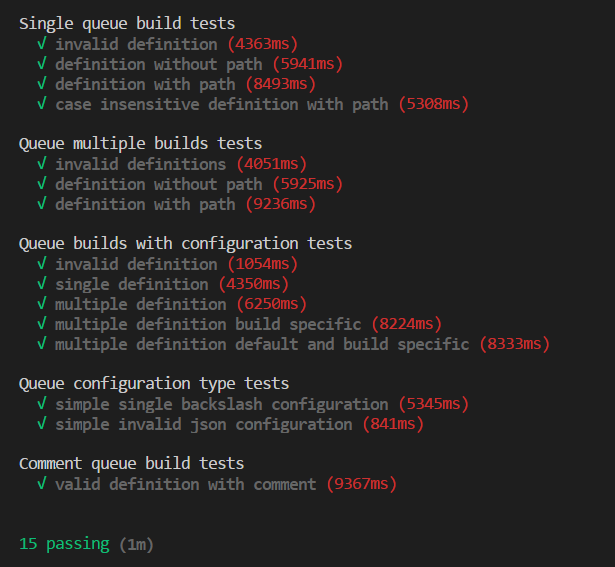
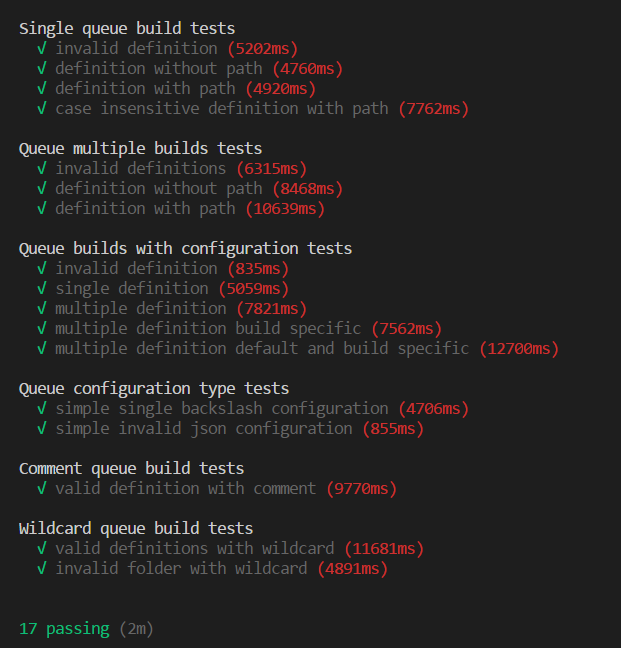
#25 Added wildcard support

Changed region(s): [[0.0309, 0.03, 0.8959, 0.8995], [0.0309, 0.9295, 0.2472, 0.9894], [0.7724, 0.5097, 0.8959, 0.5697]]

diff --git a/src/task/configuration/environment.configuration.ts b/src/task/configuration/environment.configuration.ts
@@ -1,8 +1,10 @@
 import { getInput, getVariable, getDelimitedInput, getEndpointAuthorization, getBoolInput } from 'vsts-task-lib/task';
+import { BuildApi } from '../build-api';
 import { IBuildConfiguration, IEnvironmentConfiguration } from './interface';
 import { TeamProjectType } from '../enum/team-project-type.enum';
 import { BuildConfiguration } from './build.configuration';
 import { BuildConfigurationParser } from './build-configuration.parser';
+import { getTeamProjectOutput } from '../util/output';
 
 export class EnvironmentConfiguration implements IEnvironmentConfiguration {
     public teamFoundationUri: string;
@@ -12,7 +14,6 @@ export class EnvironmentConfiguration implements IEnvironmentConfiguration {
     public accessToken: string;
     public requestedFor: string | null;
     public async: boolean;
-    public buildConfigurations: IBuildConfiguration[];
 
     public teamProjectType: TeamProjectType;
     private teamProject: string;
@@ -28,8 +29,6 @@ export class EnvironmentConfiguration implements IEnvironmentConfiguration {
 
         // Team project must be set before the configuration is parsed
         this.setTeamProject();
-
-        this.buildConfigurations = this.getBuildConfigurations();
     }
 
     /**
@@ -136,8 +135,7 @@ export class EnvironmentConfiguration implements IEnvironmentConfiguration {
     /** 
      * Parse & convert json configuration for the builds
      */
-    public getBuildConfigurations(): IBuildConfiguration[] {
-
+    public async getBuildConfigurations(buildApi: BuildApi): Promise<IBuildConfiguration[]> {
         // Process build configuration
         let buildConfigurationInput = getInput('buildConfiguration', false);
         if (this.debug) {
@@ -182,6 +180,71 @@ export class EnvironmentConfiguration implements IEnvironmentConfiguration {
             }
         }
 
-        return buildConfigurations;
+        return await this.loadBuildDefinitions(buildApi, buildConfigurations);
+    }
+
+    private async loadBuildDefinitions(buildApi: BuildApi, definitions: IBuildConfiguration[]): Promise<IBuildConfiguration[]> {
+        let result: IBuildConfiguration[] = [];
+
+        for (let i = 0; i < definitions.length; i++) {
+            let buildConfiguration = definitions[i];
+
+            // Get build definitions
+            let buildDefinitions = await buildApi.getDefinitions(buildConfiguration.teamProject);
+            if (this.debug) {
+                console.log(`Builds${getTeamProjectOutput(this, buildConfiguration, true, false)}: ${JSON.stringify(buildDefinitions)}`);
+            }
+
+            // Process build path
+            if (this.debug) {
+                console.log(`Path: ${buildConfiguration.path}, Build name: ${buildConfiguration.buildName}`);
+            }
+
+            // Find wild card build definitions
+            if (buildConfiguration.buildName.endsWith('*')) {
+                let filteredDefinitions = buildDefinitions.filter(b => b.path == buildConfiguration.path);
+
+                for (let k = 0; k < filteredDefinitions.length; k++) {
+                    let definition = filteredDefinitions[k];
+
+                    // Clone configuration for each build
+                    let config = JSON.parse(JSON.stringify(buildConfiguration));
+                    config.buildName = definition.name;
+                    config.buildDefinitionId = definition.id;
+                    result.push(config);
+
+                    if (this.debug) {
+                        console.log(` - Build definition id: ${config.buildDefinitionId}`);
+                    }
+                }
+                continue;
+            }
+
+            // Find build definition
+            let buildDefinition = buildDefinitions.find(b => b.name === buildConfiguration.buildName && b.path == buildConfiguration.path);
+            if (buildDefinition == null) {
+                buildDefinition = buildDefinitions
+                    .find(b => b.name.toLowerCase() === buildConfiguration.buildName.toLowerCase()
+                        && b.path.toLowerCase() == buildConfiguration.path.toLowerCase());
+
+                if (buildDefinition == null) {
+                    if (this.async === true) {
+                        throw Error(`Build definition "${buildConfiguration.originalBuildName}" not found ${getTeamProjectOutput(this, buildConfiguration, false, false)}`);
+                    } else {
+                        console.error(`Build definition "${buildConfiguration.originalBuildName}" not found ${getTeamProjectOutput(this, buildConfiguration, false, false)}`);
+                    }
+                }
+            }
+
+            let id = buildDefinition != null ? buildDefinition.id : null;
+            if (this.debug) {
+                console.log(`Build definition id: ${id} ${getTeamProjectOutput(this, buildConfiguration, false, false)}`);
+            }
+
+            buildConfiguration.buildDefinitionId = id;
+            result.push(buildConfiguration);
+        }
+
+        return result;
     }
 }

diff --git a/src/test/test-suite.ts b/src/test/test-suite.ts
@@ -272,11 +272,11 @@ sourceVersion: null,
     }
 },
 "Build 01": {
-    "sourceBranch": "feature/angular-release"
+    "sourceBranch": "feature/test"
 },
 "Build 02": {
     "sourceBranch": "master",
-    "sourceVersion": "7501defae79c4bedf4ab2231bae3cd01664bf18c"
+    "sourceVersion": "c372910406c50fa8a67af50639308729a2da58e4"
 }
 }`;
 
@@ -288,8 +288,8 @@ sourceVersion: null,
         assert(tr.stdout.indexOf(`Build "Build 01" started`) >= 0, "build definition for build1 should be valid");
         assert(tr.stdout.indexOf(`Build "Build 02" started`) >= 0, "build definition for build2 should be valid");
         assert(tr.stdout.indexOf(`Build "Build 03" started`) >= 0, "build definition for build3 should be valid");
-        assert(tr.stdout.indexOf(`Queue request parameters for build "Build 01": {"sourceBranch":"feature/angular-release","definition":{"id":`) >= 0, "build configuration for build1 should be valid");
-        assert(tr.stdout.indexOf(`Queue request parameters for build "Build 02": {"sourceBranch":"master","sourceVersion":"7501defae79c4bedf4ab2231bae3cd01664bf18c","definition":{"id":`) >= 0, "build configuration for build2 should be valid");
+        assert(tr.stdout.indexOf(`Queue request parameters for build "Build 01": {"sourceBranch":"feature/test","definition":{"id":`) >= 0, "build configuration for build1 should be valid");
+        assert(tr.stdout.indexOf(`Queue request parameters for build "Build 02": {"sourceBranch":"master","sourceVersion":"c372910406c50fa8a67af50639308729a2da58e4","definition":{"id":`) >= 0, "build configuration for build2 should be valid");
         assert(tr.stdout.indexOf(`Queue request parameters for build "Build 03": {"parameters":"{\\"system.debug\\":true,\\"testVariable\\":\\"Another value\\"}","definition":{"id":`) >= 0, "build configuration for build3 should be valid");
 
         done();
@@ -391,6 +391,51 @@ Build 01
         assert(tr.succeeded, 'should have succeeded');
         assert(tr.stdout.indexOf(`Build "Build 01" started`) >= 0, "build definition for build1 should be valid");
         assert(tr.stdout.indexOf(`Build "Build 02" started`) >= 0, "build definition for build2 should be valid");
+
+        done();
+    });
+
+});
+
+
+/*
+ *  Wildcard tests 
+ */
+describe('Wildcard queue build tests', function () {
+    this.timeout(timeout);
+
+    before(initializeEnvironment);
+
+    it('valid definitions with wildcard', (done: MochaDone) => {
+
+        process.env['queue_build_definition'] = `
+Build 01
+\\test\\wildcard\\*
+`;
+
+        let tp = path.join(__dirname, 'runner.js');
+        let tr: MockTestRunner = new MockTestRunner(tp);
+
+        tr.run();
+        assert(tr.succeeded, 'should have succeeded');
+        assert(tr.stdout.indexOf(`Build "Build 01" started`) >= 0, "build definition for build1 should be valid");
+        assert(tr.stdout.indexOf(`Build "Build 02 - wildcard" started`) >= 0, "build definition for build2-wildcard should be valid");
+        assert(tr.stdout.indexOf(`Build "Build 03 - wildcard" started`) >= 0, "build definition for build3-wildcard should be valid");
+
+        done();
+    });
+
+    it('invalid folder with wildcard', (done: MochaDone) => {
+
+        process.env['queue_build_definition'] = `
+\\test\\invalid\\*
+`;
+
+        let tp = path.join(__dirname, 'runner.js');
+        let tr: MockTestRunner = new MockTestRunner(tp);
+
+        tr.run();
+        assert(tr.succeeded, 'should have succeeded');
 
         done();
     });

diff --git a/src/task/queue-build.worker.ts b/src/task/queue-build.worker.ts
@@ -2,6 +2,7 @@ import { Build, BuildStatus, BuildResult, DefinitionReference } from 'vso-node-a
 import { IEnvironmentConfiguration, IBuildConfiguration } from './configuration';
 import { BuildApi } from './build-api';
 import { TeamProjectType } from './enum/team-project-type.enum';
+import { getTeamProjectOutput } from './util/output';
 
 const outputTimeInterval: number = 1000 * 60 * 2.5; // 2.5 Minutes
 
@@ -19,37 +20,10 @@ export class BuildWorker {
     ) { }
 
     public async queueBuild(): Promise<void> {
-
-        // Get build definitions
-        let buildDefinitions = await this.buildApi.getDefinitions(this.buildConfiguration.teamProject);
-        if (this.environmentConfiguration.debug) {
-            console.log(`Builds${this.getTeamProjectOutput(true, false)}: ${JSON.stringify(buildDefinitions)}`);
-        }
-
-        // Process build path
-        if (this.environmentConfiguration.debug) {
-            console.log(`Path: ${this.buildConfiguration.path}, Build name: ${this.buildConfiguration.buildName} ${this.getTeamProjectOutput(false, false)}`);
-        }
-
-        // Find build definition
-        let buildDefinition = buildDefinitions.find(b => b.name === this.buildConfiguration.buildName && b.path == this.buildConfiguration.path);
-        if (buildDefinition == null) {
-            buildDefinition = buildDefinitions
-                .find(b => b.name.toLowerCase() === this.buildConfiguration.buildName.toLowerCase()
-                    && b.path.toLowerCase() == this.buildConfiguration.path.toLowerCase());
-
-            if (buildDefinition == null) {
-                this.cachedStatus = true;
-                if (this.environmentConfiguration.async === true) {
-                    throw Error(`Build definition "${this.buildConfiguration.originalBuildName}" not found ${this.getTeamProjectOutput(false, false)}`);
-                } else {
-                    console.error(`Build definition "${this.buildConfiguration.originalBuildName}" not found ${this.getTeamProjectOutput(false, false)}`);
-                }
-                return;
-            }
-        }
-        if (this.environmentConfiguration.debug) {
-            console.log(`Build definition id: ${buildDefinition.id} ${this.getTeamProjectOutput(false, false)}`);
+        // Invalid definition handling
+        if (this.buildConfiguration.buildDefinitionId == null) {
+            this.cachedStatus = true;
+            return;
         }
 
         // Queue build 
@@ -64,7 +38,7 @@ export class BuildWorker {
         }
 
         // Set build id
-        build.definition.id = buildDefinition.id;
+        build.definition.id = this.buildConfiguration.buildDefinitionId;
 
         // Set optional requested for
         if (this.environmentConfiguration.requestedFor != null) {
@@ -141,11 +115,6 @@ export class BuildWorker {
     }
 
     private getTeamProjectOutput(prefixWhitespace: boolean, postfixWhitespace: boolean) {
-        if (this.environmentConfiguration.teamProjectType == TeamProjectType.JsonConfiguration) {
-            return (prefixWhitespace ? ' ' : '')
-                + `(Team project: ${this.buildConfiguration.teamProject})`
-                + (postfixWhitespace ? ' ' : '');
-        }
-        return '';
+        return getTeamProjectOutput(this.environmentConfiguration, this.buildConfiguration, prefixWhitespace, postfixWhitespace);
     }
 }

diff --git a/src/task/util/output.ts b/src/task/util/output.ts
@@ -1,0 +1,16 @@
+import { TeamProjectType } from "../enum/team-project-type.enum";
+import { IEnvironmentConfiguration, IBuildConfiguration } from "../configuration";
+
+export function getTeamProjectOutput(
+    environmentConfiguration: IEnvironmentConfiguration,
+    buildConfiguration: IBuildConfiguration,
+    prefixWhitespace: boolean,
+    postfixWhitespace: boolean
+) {
+    if (environmentConfiguration.teamProjectType == TeamProjectType.JsonConfiguration) {
+        return (prefixWhitespace ? ' ' : '')
+            + `(Team project: ${buildConfiguration.teamProject})`
+            + (postfixWhitespace ? ' ' : '');
+    }
+    return '';
+}

diff --git a/src/task/queue-build.task.ts b/src/task/queue-build.task.ts
@@ -22,8 +22,9 @@ async function run() {
         let buildApi = api.getBuildApi();
 
         // Start builds
-        for (let i = 0; i < configuration.buildConfigurations.length; i++) {
-            let worker = new BuildWorker(configuration.buildConfigurations[i], configuration, buildApi);
+        let buildConfigurations = await configuration.getBuildConfigurations(buildApi);
+        for (let i = 0; i < buildConfigurations.length; i++) {
+            let worker = new BuildWorker(buildConfigurations[i], configuration, buildApi);
             builds.push(worker);
             await worker.queueBuild();
         }

diff --git a/src/task/configuration/build.configuration.ts b/src/task/configuration/build.configuration.ts
@@ -1,10 +1,11 @@
-import { IBuildConfiguration } from './interface';
 import { Build } from 'vso-node-api/interfaces/BuildInterfaces';
+import { IBuildConfiguration } from './interface';
 
 export class BuildConfiguration implements IBuildConfiguration {
     path: string;
     buildName: string;
     configuration: Build;
+    buildDefinitionId: number | null;
 
     constructor(
         public originalBuildName: string,

diff --git a/src/task/configuration/build-configuration.parser.ts b/src/task/configuration/build-configuration.parser.ts
@@ -8,8 +8,6 @@ export class BuildConfigurationParser {
     private globalConfiguration: Build = null;
     private buildSpecificConfiguration: { [buildName: string]: Build } = null;
 
-    constructor() { }
-
     public fill(input: string, configType: string): void {
         try {
 

diff --git a/src/task/configuration/interface/build.configuration.ts b/src/task/configuration/interface/build.configuration.ts
@@ -5,6 +5,7 @@ export interface IBuildConfiguration {
     path: string;
     buildName: string;
     configuration: Build;
+    buildDefinitionId: number | null;
 
     originalBuildName: string; // For debugging
 }

diff --git a/doc/build-definition.md b/doc/build-definition.md
@@ -17,3 +17,7 @@ Folders are separated by a backslash. The starting backslash is optional. Subfol
 * Comments  
 Comments are defined by starting a line with #.  
 ![Comments configuration](images/config_build_definition_06.png "Comments configuration")
+
+* Wildcards  
+Wildcards end with an asterisk (*), to start all definitions within the specified folder.  
+![Wildcard configuration](images/config_build_definition_07.png "Wildcard configuration")

diff --git a/README.md b/README.md
@@ -26,6 +26,7 @@ The path to your build definitions. Supports:
 * Multiple builds
 * Subfolders
 * Comments
+* Wildcards
 
 ![Single build configuration](doc/images/config_build_definition_01.png "Single build configuration")
 

diff --git a/doc/overview.md b/doc/overview.md
@@ -25,6 +25,7 @@ The path to your build definitions. Supports:
 * Multiple builds
 * Subfolders
 * Comments
+* Wildcards
 
 ![Single build configuration](doc/images/config_build_definition_01.png "Single build configuration")
 
